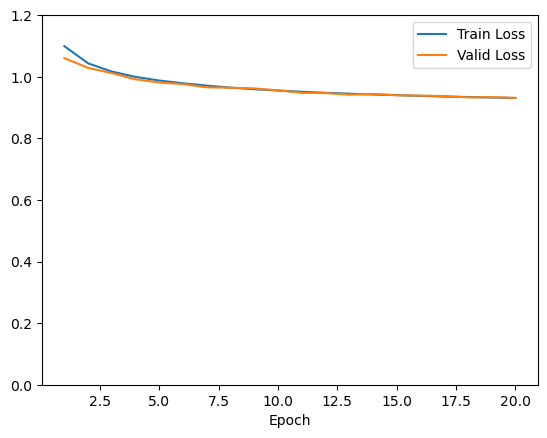
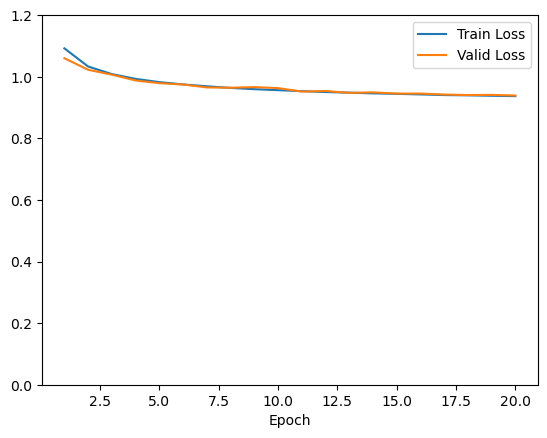
[Homework 1] Fixed mlp

Changed region(s): [[0.1243, 0.1187, 0.9634, 0.2374], [0.0932, 0.089, 0.1243, 0.1187]]

diff --git a/hw1/hw1-q2.py b/hw1/hw1-q2.py
@@ -64,27 +64,30 @@ class FeedforwardNetwork(nn.Module):
         attributes that each FeedforwardNetwork instance has. Note that nn
         includes modules for several activation functions and dropout as well.
         """
+        if layers < 1:
+            raise ValueError("layers must be at least 1")
+        elif dropout < 0 or dropout > 1:
+            raise ValueError("dropout must be between 0 and 1")
+
         super(FeedforwardNetwork, self).__init__()
 
+        transforms = []
         activations = {"tanh": nn.Tanh, "relu": nn.ReLU}
         activation_function = activations[activation_type]
-
-        transforms = []
+        
         if layers == 1:
             transforms.append(nn.Linear(n_features, n_classes))
-            transforms.append(activation_function())
         else:
             transforms.append(nn.Linear(n_features, hidden_size))
             transforms.append(activation_function())
-            transforms.append(nn.Dropout(dropout))
-
+            if dropout != 0:
+                transforms.append(nn.Dropout(dropout))
             for _ in range(layers - 2):
                 transforms.append(nn.Linear(hidden_size, hidden_size))
                 transforms.append(activation_function())
-                transforms.append(nn.Dropout(dropout))
-
+                if dropout != 0:
+                    transforms.append(nn.Dropout(dropout))
             transforms.append(nn.Linear(hidden_size, n_classes))
-            transforms.append(activation_function())
 
         self.net = nn.Sequential(*transforms)
 
